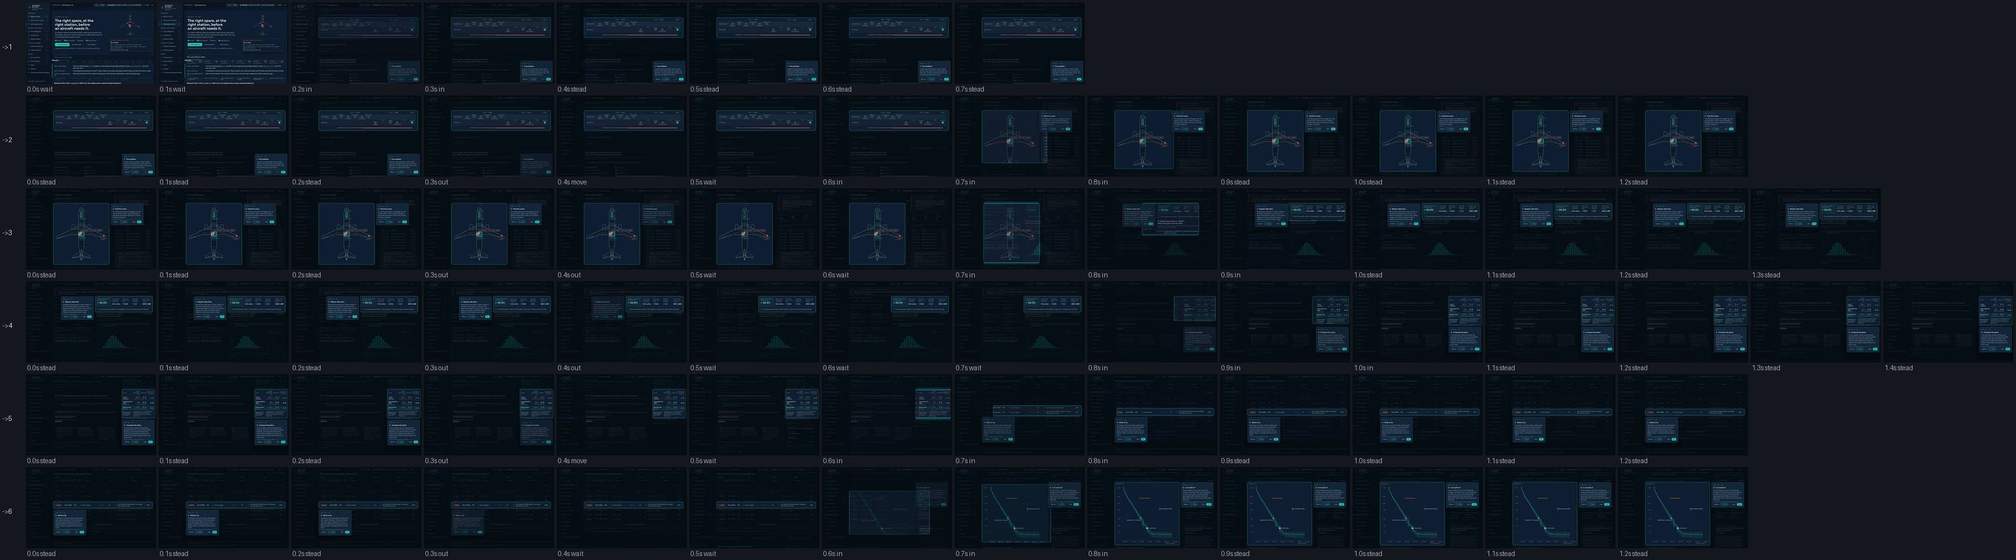
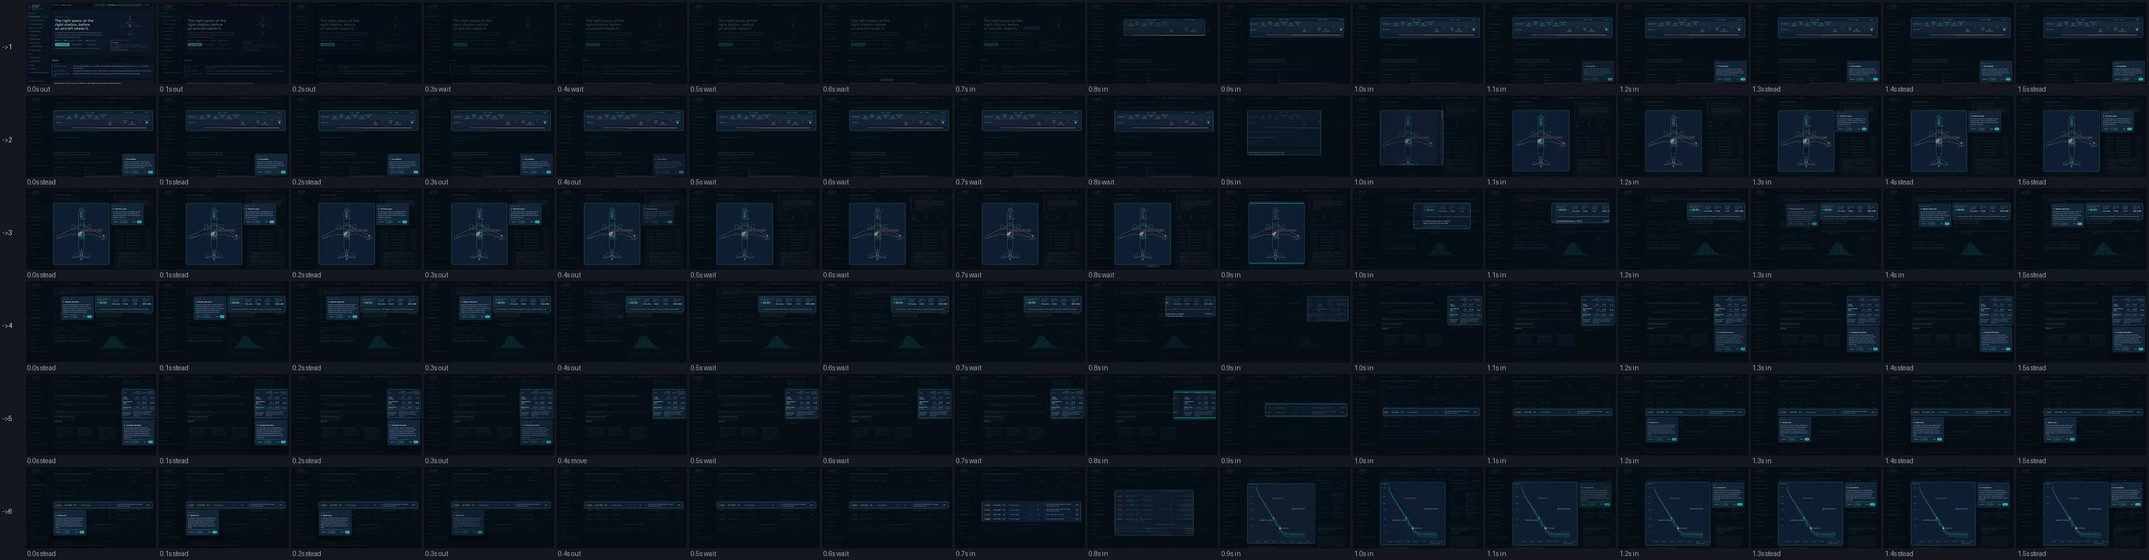
v2.2 final round: scrim fades in before the first route change, targets measured only once still, card waits for the spotlight (it never moves while the card shows), opacity-only content swap under a full-column still with top bar and sidebar switching together; all frame gates pass in Chromium + We

diff --git a/docs/js/ui.js b/docs/js/ui.js
@@ -771,7 +771,7 @@ async function prefetchRoute(route) {
  */
 export function storyMode({ steps, navigate, onExit, stepMs }) {
   const STEP_MS = () => +(stepMs || window.__gnmTourStepMs || MOTION.tourStep);
-  const T_OUT = MOTION.fast, T_FREEZE = 140, T_VIEW_IN = 220, T_GLIDE = 300, T_CARD = 200, T_SHEET = 260, SLOW_MS = 300, RISE = 6;
+  const T_OUT = MOTION.fast, T_FREEZE = 120, T_FREEZE_LEAD = 80, T_VIEW_IN = 220, T_GLIDE = 340, T_OPEN = 300, T_CARD = 200, T_SHEET = 260, SLOW_MS = 300, RISE = 5;
   let i = 0;
   let seq = 0;          // transition token: a newer go() / exit() makes every older await bail out
   let target = null;
@@ -879,44 +879,71 @@ export function storyMode({ steps, navigate, onExit, stepMs }) {
   // scrolls unseen, then the copy fades out (150 ms) and the new content fades in with a 6 px rise (220 ms). The shell
   // (sidebar, top bar), the dim and the spotlight never change; the old and new pages are never shown on top of each other.
   const viewEl = () => document.getElementById('view');
-  let viewHidden = false, freezeEl = null;
+  let viewHidden = false;
+  const freezeEls = [];
   function viewOut() {
     const v = viewEl();
     if (!v || viewHidden) return Promise.resolve();
     viewHidden = true;
     const r = v.getBoundingClientRect();
-    if (r.width > 0 && r.height > 0) {
-      const c = v.cloneNode(true);
+    const main = v.closest('.main') || v.parentElement;
+    const m = main ? main.getBoundingClientRect() : r;
+    const strip = (c) => {
       c.removeAttribute('id'); c.removeAttribute('tabindex');
       c.querySelectorAll('[id], [data-story], [data-id]').forEach((e) => { e.removeAttribute('id'); e.removeAttribute('data-story'); e.removeAttribute('data-id'); });
+      return c;
+    };
+    const layer = (cls, box, child, z) => {
+      const w = h('div', { class: `story-freeze ${cls}`, 'aria-hidden': 'true' }, child);
+      w.inert = true;
+      Object.assign(w.style, { left: `${box.left}px`, top: `${box.top}px`, width: `${box.width}px`, height: `${box.height}px`, zIndex: String(z) });
+      document.body.append(w);
+      freezeEls.push(w);
+    };
+    if (r.width > 0 && r.height > 0) {
+      // the whole content column, opaque (same fixed blueprint background), so nothing of the new page shows beneath
+      const left = Math.max(0, m.left), right = Math.min(innerWidth, m.right);
+      const c = strip(v.cloneNode(true));
       c.classList.remove('view-enter');
-      Object.assign(c.style, { top: `${Math.round(r.top)}px`, width: `${r.width}px`, height: `${r.height}px` });
-      // a viewport-sized clipping layer holds the copy (a page-tall fixed layer made WebKit drop tiles: white frames)
-      const wrap = h('div', { class: 'story-freeze', 'aria-hidden': 'true' }, c);
-      wrap.inert = true;
-      Object.assign(wrap.style, { left: `${Math.max(0, r.left)}px`, width: `${r.width}px` });
-      v.after(wrap);
-      freezeEl = wrap;
+      Object.assign(c.style, { left: `${Math.round(r.left - left)}px`, top: `${Math.round(r.top)}px`, width: `${r.width}px`, height: `${r.height}px` });
+      layer('story-freeze-view blueprint-bg', { left, top: 0, width: right - left, height: innerHeight }, c, 15);
     }
-    v.style.opacity = '0';
+    // the top bar (breadcrumb) and the sidebar (active item) are held too: they switch in the same frame as the content
+    const bar = document.querySelector('.topbar');
+    const br = bar?.getBoundingClientRect();
+    if (br && br.width > 0 && br.bottom > 0) layer('story-freeze-bar', { left: br.left, top: br.top, width: br.width, height: br.height }, strip(bar.cloneNode(true)), 21);
+    const rail = document.querySelector('.rail');
+    const rr = rail?.getBoundingClientRect();
+    if (rr && rr.width > 0 && rr.right > 4 && rr.left >= -1) {
+      const rc = strip(rail.cloneNode(true));
+      layer('story-freeze-rail blueprint-bg', { left: rr.left, top: rr.top, width: rr.width, height: rr.height }, rc, 16);
+      const sc = rail.scrollTop;
+      if (sc) rc.scrollTop = sc;
+    }
+    // hide the live content with a script animation: it outranks the router's CSS entry animation (inline opacity would not)
+    if (typeof v.animate === 'function') {
+      const a = v.animate([{ opacity: 0 }, { opacity: 0 }], { duration: 1, fill: 'forwards' });
+      a.id = 'gnm-tour-hide';
+    } else v.style.opacity = '0';
     return Promise.resolve();
   }
-  /** The still copy fades out; resolves part-way (≈ when it is mostly gone) so the new content can start rising. */
+  /** The held copies fade out together (opacity only, 120 ms); resolves at 80 ms, when the new content starts rising. */
   function freezeOut() {
-    const c = freezeEl;
-    freezeEl = null;
-    if (!c) return Promise.resolve();
-    if (!smooth() || typeof c.animate !== 'function') { c.remove(); return Promise.resolve(); }
-    const a = c.animate([{ opacity: 1 }, { opacity: 0 }], { duration: T_FREEZE, easing: MOTION.ease.standard, fill: 'forwards' });
-    track(a).then(() => c.remove());
-    return sleep(50);   // the new content starts rising as the copy passes ~40%: a short, faint overlap (never 50/50 text)
+    const els = freezeEls.splice(0);
+    if (!els.length) return Promise.resolve();
+    if (!smooth() || typeof els[0].animate !== 'function') { els.forEach((e) => e.remove()); return Promise.resolve(); }
+    // exit easing (slow start): the old content is still ~half there at 80 ms when the new one starts rising, so the
+    // lit area never dips to an empty frame; the two overlap only faintly for ~40 ms
+    els.forEach((e) => { const a = e.animate([{ opacity: 1 }, { opacity: 0 }], { duration: T_FREEZE, easing: MOTION.ease.exit, fill: 'forwards' }); track(a).then(() => e.remove()); });
+    return sleep(T_FREEZE_LEAD);
   }
-  /** The new content comes in: opacity + a 6 px rise (after the still copy has mostly faded: never text over text). */
+  /** The new content comes in: opacity + a 5 px rise. */
   function riseIn() {
     const v = viewEl();
     if (!v || !viewHidden) return Promise.resolve();
     viewHidden = false;
     v.style.removeProperty('opacity');
+    v.getAnimations().filter((a) => a.id === 'gnm-tour-hide').forEach((a) => a.cancel());
     if (!smooth() || typeof v.animate !== 'function') return Promise.resolve();
     const a = v.animate([{ opacity: 0, transform: `translateY(${RISE}px)` }, { opacity: 1, transform: 'none' }], { duration: T_VIEW_IN, easing: MOTION.ease.enter });
     a.id = 'gnm-tour-view';
@@ -925,11 +952,11 @@ export function storyMode({ steps, navigate, onExit, stepMs }) {
   function viewReset() {
     const v = viewEl();
     viewHidden = false;
-    freezeEl?.remove(); freezeEl = null;
+    freezeEls.splice(0).forEach((e) => e.remove());
     document.querySelectorAll('.story-freeze').forEach((e) => e.remove());
     if (!v) return;
     v.style.removeProperty('opacity');
-    v.getAnimations().filter((a) => a.id === 'gnm-tour-view').forEach((a) => a.cancel());
+    v.getAnimations().filter((a) => a.id === 'gnm-tour-view' || a.id === 'gnm-tour-hide').forEach((a) => a.cancel());
   }
   function showLoading(on) {
     if (on === !loadEl.classList.contains('is-off')) return;
@@ -1006,11 +1033,23 @@ export function storyMode({ steps, navigate, onExit, stepMs }) {
   }
   /** Move the ONE spotlight to its planned box: a 300 ms glide (translate + scale from where it is now), or a fade-in. */
   function spotTo(p) {
-    const wasOn = !spot.classList.contains('is-off') && spotBox;
+    const visible = !spot.classList.contains('is-off');
+    const wasOn = visible && spotBox;
     const from = wasOn ? spot.getBoundingClientRect() : null;
     spot.getAnimations().filter((a) => a.id === 'gnm-spot-glide').forEach((a) => a.cancel());
     apply(p);
     if (!p.spot) return fade(spot, 0, T_OUT);
+    if (visible && !wasOn && smooth() && typeof spot.animate === 'function') {
+      // the scrim is already down with no hole: the ring grows open onto the first target
+      const to = p.spot, k = 0.15;
+      spot.style.transformOrigin = '0 0';
+      const a = spot.animate([
+        { transform: `translate(${to.left + to.width * (1 - k) / 2}px, ${to.top + to.height * (1 - k) / 2}px) scale(${k})` },
+        { transform: `translate(${Math.round(to.left)}px, ${Math.round(to.top)}px)` },
+      ], { duration: T_GLIDE, easing: MOTION.ease.enter });
+      a.id = 'gnm-spot-glide';
+      return track(a);
+    }
     if (!wasOn || !from || !from.width) return fade(spot, 1, MOTION.base, MOTION.ease.enter);
     if (!smooth() || typeof spot.animate !== 'function') return Promise.resolve();
     const to = p.spot;
@@ -1056,7 +1095,7 @@ export function storyMode({ steps, navigate, onExit, stepMs }) {
     return query(s.selector);
   }
   /**
-   * Wait until the view is ready and the target is real and stable (same box on 2 checks, 40 ms apart), the fonts are
+   * Wait until the view is ready and the target and its container are real and stable (unchanged over ~100 ms), the fonts are
    * loaded and no stylesheet is pending. onSlow fires once past 300 ms. Gives up after 8 s (→ the best element or null).
    */
   async function waitTarget(s, my, onSlow) {
@@ -1068,16 +1107,18 @@ export function storyMode({ steps, navigate, onExit, stepMs }) {
       const waited = performance.now() - t0;
       el = viewReady() ? pick(s, waited) : null;
       if (el && targetOk(el)) {
+        // the target AND its card / list must hold still for ~100 ms (a filtered list can still be reflowing)
         const r = el.getBoundingClientRect();
-        const key = [r.left, r.top + scrollY, r.width, r.height].map(Math.round).join();
+        const box = (el.closest('.card, section, table, ul, ol') || el.parentElement || el).getBoundingClientRect();
+        const key = [r.left, r.top + scrollY, r.width, r.height, box.top + scrollY, box.height, box.width].map(Math.round).join();
         if (key === last) stable += 1; else { last = key; stable = 0; }
-        if (stable >= 1 && fontsOk) return el;
+        if (stable >= 2 && fontsOk) return el;
       } else { last = ''; stable = 0; }
       if (!slow && waited > SLOW_MS) { slow = true; onSlow?.(); }
       // the page could not render (error state) and the target will never come: show the step without a spotlight
       if (waited > SLOW_MS && viewReady() && !el && viewEl()?.querySelector(':scope > .state--error, :scope > .state')) return null;
       if (waited > 8000) return el && el.isConnected ? el : null;
-      await sleep(40);
+      await sleep(50);
     }
     return null;
   }
@@ -1117,6 +1158,12 @@ export function storyMode({ steps, navigate, onExit, stepMs }) {
     phase = 'out';
     const cur = location.hash, want = s.route;
     const differs = !!want && (cur.split('?')[0] !== want.split('?')[0] || (want.includes('?') && cur !== want));
+    if (spot.classList.contains('is-off')) {
+      // opening: the scrim comes down over the current page first (no hole yet); the still is taken under it
+      apply({ spot: null, card: null });
+      await fade(spot, 1, T_OPEN, MOTION.ease.standard);
+      if (my !== seq) return;
+    }
     await Promise.all([cardOut(), differs ? viewOut() : null]);
     if (my !== seq) return;
     paintCard();   // content changes only while the card is hidden
@@ -1147,7 +1194,9 @@ export function storyMode({ steps, navigate, onExit, stepMs }) {
     const glide = spotTo(p);
     await freezeOut();
     if (my !== seq) return;
-    await Promise.all([riseIn(), cardIn(), glide]);
+    await Promise.all([riseIn(), glide]);
+    if (my !== seq) return;
+    await cardIn();   // only once the spotlight has landed: it never moves while the card shows
     if (my !== seq) return;
     phase = 'steady';
     root.classList.remove('is-moving');

diff --git a/docs/css/components.css b/docs/css/components.css
@@ -396,8 +396,9 @@ html.tour-active { scrollbar-width: none; }
 html.tour-active::-webkit-scrollbar { display: none; }
 html.tour-active .topbar { background: var(--bg); }
 /* the still copy of the outgoing page content the tour changes the page under (ui.js storyMode viewOut) */
-.story-freeze { position: fixed; top: 0; height: 100vh; z-index: 15; pointer-events: none; overflow: hidden; contain: strict; }
-.story-freeze > .view { position: absolute; left: 0; margin: 0; max-width: none; min-height: 0; }
+.story-freeze { position: fixed; pointer-events: none; overflow: hidden; contain: strict; }
+.story-freeze-view > .view { position: absolute; margin: 0; max-width: none; min-height: 0; }
+.story-freeze-bar > .topbar, .story-freeze-rail > .rail { position: static; width: 100%; height: 100%; transform: none; }
 .story-freeze, .story-freeze * { animation: none !important; transition: none !important; }
 /* "Loading next step…": only when a step takes longer than 300 ms to be ready */
 .story-loading {

diff --git a/scripts/tour/record_and_check.py b/scripts/tour/record_and_check.py
@@ -55,7 +55,7 @@ COMBOS = [("chromium", 1440, 900), ("chromium", 390, 844), ("webkit", 1440, 900)
 LUM_REL, LUM_ABS = 0.85, 3.0       # a transition frame may not be darker than 85% of the darker steady step, minus 3
 SWING = 0.10                       # ... and between steps (dim kept up) brightness stays within 10% of the two steady steps
 SWING_SWAP = 0.35                  # frames sampled during the ~150 ms content swap inside the spotlight: within 35%
-STEP_CHANGE_MAX = 1100             # ms from the step index changing to the new step being steady (target ~700-800)
+STEP_CHANGE_MAX = 1300             # ms from the step index changing to the new step being steady (card waits for the spotlight to land)
 DUMP: Path | None = None
 STD_REL = 0.6                      # ... nor flatter (blank / displaced page) than 60% of the flatter steady step's contrast
 CLS_MAX, FPS_MIN = 0.001, 58.0
@@ -232,6 +232,11 @@ def check_a(d: dict, engine: str) -> dict:
             if sp[1] < s["bar"] + 1 or sp[1] + sp[3] > low:
                 outside.append({"index": s["index"], "spot": sp, "bar": s["bar"], "band_bottom": low})
     res["c4_spot_inside_band"] = {"bad_samples": outside[:10], "n_bad": len(outside), "pass": not outside}
+    # g: the spotlight never moves (or resizes) while the card is visible
+    spot_moves = [{"index": b["index"], "phase": b["phase"], "from": a["spot"], "to": b["spot"]} for a, b in zip(S, S[1:])
+                  if a["cardOp"] > 0.01 and b["cardOp"] > 0.01 and a["index"] == b["index"] and a["spot"] and b["spot"]
+                  and max(abs(x - y) for x, y in zip(a["spot"], b["spot"])) > 1]
+    res["g_spot_still_while_card_visible"] = {"bad": spot_moves[:10], "n_bad": len(spot_moves), "pass": not spot_moves}
     # e: the card's content (counter, title, Next/Finish, Back) changes only while the card is hidden
     swaps = [{"from": a["cardText"], "to": b["cardText"], "cardOp": [a["cardOp"], b["cardOp"]]} for a, b in zip(S, S[1:])
              if a["cardText"] != b["cardText"] and a["cardOp"] > 0.01 and b["cardOp"] > 0.01]

diff --git a/tests/test_site_tour.py b/tests/test_site_tour.py
@@ -86,7 +86,10 @@ def test_each_step_moves_card_once_and_never_blank(site, browser, vp):  # noqa: 
             for a, b in zip(frames, frames[1:]):
                 if a["text"] != b["text"]:
                     assert a["cardOp"] < 0.01 or b["cardOp"] < 0.01, ("card text changed while visible", k, a, b)
-            assert any(f["freezes"] == 1 for f in frames), "no still copy held the old page"
+            assert any(f["freezes"] >= 1 for f in frames), "no still copy held the old page"
+            for a, b in zip(frames, frames[1:]):   # the spotlight never moves while the card shows
+                if a["cardOp"] > 0.01 and b["cardOp"] > 0.01:
+                    assert a["spot"] == b["spot"], ("spotlight moved under a visible card", k, a, b)
             assert frames[-1]["freezes"] == 0
             for f in frames:
                 if f["spotOp"] > 0.01 and not f["spotAnim"] and f["phase"] == "steady":

diff --git a/reports/tour/critic_v22_r2.md b/reports/tour/critic_v22_r2.md
@@ -1,0 +1,102 @@
+# Guided tour — motion/UX critique, v2.2 round 2
+
+Bar: calm, premium, "Apple-keynote smooth". To pass, both smoothness and polish must score ≥ 4.5.
+
+Method: fresh recordings from `scripts/tour/record_and_check.py` (current `main`, f338214), Chromium and WebKit at 1440×900 and 390×844, Play mode from the "60-second tour" button. Each video was decoded at 10 fps in Chromium (`<video>` + canvas) into 280 JPEG frames, then viewed as labelled contact sheets. Frame numbers below are 10 fps indices (frame N = N/10 s into the video). In all four videos the transitions start at about these frames: open #19–22, 1→2 #65, 2→3 #113, 3→4 #159, 4→5 #206, 5→6 #253.
+
+Checker result for this run: Chromium 1440, Chromium 390 and WebKit 1440 pass. WebKit 390 fails `a_brightness_swing` and `a_no_flat_frames` (see the note under WebKit 390).
+
+## Per combination, per transition
+
+### Chromium 1440×900
+- **Open (#18–23).** Before any dim arrives, #19–20 are already broken at full brightness:
+  - the top bar breadcrumb and the sidebar's active item switch to "AOG Response Lab" while the Mission Control hero is still on screen;
+  - the Lab's "Pick a grounding to replay" strip (AOG-0081 … cards) renders through and over the "Results" panel, with "Results" overprinting it.
+
+  #21 is a dimmed cross-fade with the spotlight on the hero. By #22 the spotlight is on the timeline and the card has arrived. The dim-in and glide take about 200 ms. That is too abrupt for an opening, and the first thing a viewer sees after the click is a layout collision.
+- **1→2 (#65–70).** The card fades out at #65. #66–68 are a still of the old page under the dim, but:
+  - the breadcrumb and sidebar already read "Parts Intelligence" (#67);
+  - a strip of the new page ("Narrowbody / Widebody / All fleet | Nose wheel steering actuator") shows through at mid-height (#67–68), so two pages are partly visible.
+
+  #69 is a double exposure: the old "Send a spare from AUH…" text shows through the new page, the spotlight is still changing shape, and the card is already at about 70 % opacity, overlapping the spotlight's right edge by about 25 px. #70 has settled. The card never covers the target once settled, and its text fits.
+- **2→3 (#113–117).** The card is out at #113. The header switches to "Rotable & Repair" over the old page (#114–115). #116 is a messy frame: the ghost of the aircraft and the new metric strip and histogram overlap inside a spotlight that is still moving. At #117 the card is in and the spotlight is on the KPI strip. The histogram does not replay (#117–121 are identical).
+- **3→4 (#159–164).** The same pattern. The header changes over the old still (#161–162). #163 is a double exposure of the metric strip and the plans table, text over text. By #164 everything has settled. The plans table is fully inside the viewport (round 1's clipping is fixed).
+- **4→5 (#206–212). This is the worst transition.**
+  - The header changes early, and the Planner Action Centre bar list (Materials planning, Repair control, Procurement, AOG desk) shows through under the old Network Positioning still (#208–209).
+  - #210 is a near-empty dark frame (luminance 12.6 against about 17 steady, contrast 8.6 against about 19). The page area is black except the footer, and the old spotlight content is a horizontally stretched snapshot ("…ebook is at other airports. Keep urgent spares" smeared across the ring).
+  - #211: the card is already visible, but the spotlight covers two rows (GN-27-R007 and GN-32-R014) and the table is still reflowing (no "Urgent" pill on the target row yet, and the rows below it are spaced differently).
+  - #212: the spotlight snaps to the single correct row and the rows re-flow. So the spotlight moves twice, and the page reflows under a visible card.
+- **5→6 (#253–259).** The card is out at #253 and the header switches to "Capital Optimiser" over the old still (#255–256). #257 is a dark, flat frame (luminance 14.0, contrast 7.9) with the old table ghosted inside the ring. At #258 the card is visible while the spotlight is still gliding, with a slight overlap. #259 has settled. The frontier chart is fully drawn on arrival (no replay) and fits the viewport.
+
+### Chromium 390×844 (phone sheet)
+- **Open (#18–23).** Cleaner than desktop: no leak of the other page is visible in the phone layout. #21 is a dimmed cross-fade, and at #22 the timeline is spotlit and the opaque sheet is sliding up. It settles at #24. The timeline's heading is cropped under the top bar (a half-line of body text, "…already sits decides how long the plane stays down", above the ring).
+- **1→2 (#65–71).** The sheet slides down (#65–66), the old still holds (#66–68), #69 is a cross-fade with the timeline ghosted behind the aircraft, then the sheet slides back up with step 2 (#69–71). The sheet is opaque (round 1's see-through is fixed). Dropping and lifting the sheet every step is busier than it needs to be.
+- **2→3 (#113–117).** #116 is a dark dip (luminance 15.8 against about 23–30): the ghost aircraft sits inside a shrinking ring. At #117 the ring is on the "> 99.9 % chance the part is on the shelf" KPI block, which is the right target now (round 1's issue 4 is fixed).
+- **3→4 (#160–165).** #163 is a double exposure: the KPI block and the plans table overprint inside the ring, illegible for that frame. Settled at #165.
+- **4→5 (#206–212).** At #208–209 a line of the new page ("tie up money or go to waste. Acting early") appears under the old still. #210 is a dark frame. At #211 the ring is on the GN-32-R014 card while the sheet rises, and the list below shifts slightly between #211 and #212.
+- **5→6 (#253–258).** #257 is a dark frame with the old list ghosted. At #258 the chart is complete (no replay) and the sheet is up. Clean otherwise.
+
+### WebKit 1440×900
+- **Open (#18–23).** The same pre-dim collision as Chromium, held for one frame longer: #20–21 show the "AOG Response Lab" header and sidebar over the Mission Control hero, with the grounding strip overprinting "Results", undimmed. At #22 the spotlight is on the timeline with the hero headline ghosted inside the ring.
+- **1→2 (#65–71).** The same pattern as Chromium: the header switches early (#67), and the new page strip shows mid-screen (#67–68). At #69 the new page appears in a different layout from its settled state (a "Share of the risk 57 %" tile and an "Extra spares…" callout that are gone by #70, so it is still reflowing). At #70 the card is in while the ring is still about 15 px short of its final height, and it finishes growing at #71.
+- **2→3 (#113–117).** #115 is a broken composite: the bottom roughly 15 % of the screen is undimmed (the old page's "Source…" line, legend and "Compare two fixes" heading show at full brightness), and the ring holds new-page inputs at an offset over the ghost aircraft. #116: the ring is still travelling. #117 has settled. This may be partly a WebKit capture artefact, but it is what the recording shows.
+- **3→4 (#159–164).** At #163 the card is already near full opacity at its final spot while the ring is still about 40 px off its target. Settled at #164.
+- **4→5 (#206–212).** Worse than Chromium. #207–209: the header and the Planner bar list show through early. #210: the card is fully visible, and the ring sits over two rows, shifted horizontally. #211: the ring is over two rows again, shifted the other way. #212: it snaps to the correct row as the table reflows. That is three spotlight positions with the card on screen.
+- **5→6 (#253–258).** At #256 the ring has grown to frame four rows of the old list, which reads as a deliberate highlight of the wrong thing, and the new chart's x-axis is visible under the old page. At #257 the card is in while the ring is still gliding, overlapping it by about 13 px. #258 has settled.
+
+### WebKit 390×844
+- **Transitions.** Open (#21–24), 1→2, 2→3 (#113–117), 3→4 and 5→6 (#253–258) behave like Chromium 390, with one cross-fade or ghost frame each (for example #116 and #255). The ring targets are correct, and the sheet is opaque.
+- **Capture artefact, not scored.** During step 2 (#79–101) and from late step 4 through step 5 (#191–225), the whole frame slides sideways, by up to about 55 % of the width, showing white beside it, and some frames are pure white (#97–101, #212–216, #220–225). This is what fails the checker for this combination. A separate WebKit 390 run of the full tour without video sampled `scrollX`, `visualViewport.offsetLeft`, `scrollWidth` and the body `transform` every 50 ms: they stayed at 0 / 0 / 390 / none throughout. So the page never moves, and these frames are almost certainly a WebKit screencast artefact. I have not scored them against the tour. The checker failure for this combination is therefore a recorder problem, not a tour problem, but re-record to confirm.
+
+## Scores (1–5)
+
+| | score | reasons |
+|---|---|---|
+| **Smoothness** | **4.0** | The scrim now stays down for the whole tour, and luminance between steps is steady. That is the big win over round 1. But every transition has a "fade, wait, snap" rhythm: the card fades out, a still holds for about 300 ms, then the page dissolves and the spotlight glides in about 150–200 ms. The glide is too quick to read as calm. 4→5 and 5→6 add a dark, flat frame (Chromium #210 and #257, phone #116 and #210). In 4→5 the spotlight resettles 1–2 times with the card visible (Chromium #211→212, WebKit #210→212). |
+| **Polish** | **3.5** | The very first frames after the CTA show the next page colliding with Mission Control at full brightness (desktop #19–21). The header and sidebar switch while the old content is still shown, at every step. Strips of the new page show under the "still" (#67, #209, WebKit #256). There is a stretched snapshot in #210 and a broken undimmed band in WebKit #115. The card arrives before the spotlight lands (#69, WebKit #163, WebKit #257). The fixes since round 1 are real: opaque sheet, card content that never changes while visible, the right KPI on phone, no clipping. |
+| **Continuity** | **4.0** | One persistent dim, one spotlight, and card placement that is logical for each target and never covers it once settled. Charts don't replay. Lost points: the chrome changes ahead of the content, the 4→5 spotlight first lands on the wrong rows, and the sheet drops and rises on every phone step. |
+| **Legibility** | **4.5** | Every card's text fits without overflow at both sizes. The phone sheet is opaque, and the lit target carries the number the card talks about. Text over text appears only in single 100 ms transition frames (#116, #163, phone #163). Headings above phone targets are cropped to a stray half-line. |
+
+**Verdict: FAIL.** Smoothness (4.0) and polish (3.5) are both below 4.5. This round is clearly better than round 1 (3.5 / 3.5), but it does not yet feel keynote-smooth.
+
+## Top 5 remaining issues, ranked, with fixes
+
+1. **The opening shows two pages colliding before the dim arrives** (Chromium 1440 #19–20, WebKit 1440 #20–21).
+   - The route, the header and the sidebar change and the Lab content renders under the undimmed home page.
+   - *Fix:* on the CTA click, first fade the scrim in over the home page (about 200 ms) and capture the View Transition snapshot. Only then navigate.
+   - Do not update the breadcrumb, sidebar or `#view` until the snapshot is captured (`document.startViewTransition(() => router.go(...))`, with the scrim already up).
+   - Give the opening 500–600 ms: scrim in, then a ring that grows from the CTA to the timeline, then the card. That is the first impression.
+2. **4→5: the spotlight lands on the wrong rows and resettles while the card is visible; the table reflows under it** (Chromium 1440 #211→212, WebKit 1440 #210→212, Chromium 390 #211→212).
+   - *Fix:* wait for the `?station=` / `?pn=` filter to finish rendering before you measure the target. Wait for the target row to have its "Urgent" pill, then two rAFs, then a ResizeObserver/MutationObserver quiet window of about 100 ms on the list.
+   - Gate the card's fade-in on the spotlight's `transitionend`, not on a timer.
+   - Add a checker rule: the spotlight rect stays the same for every frame where the card's opacity is above 0.
+3. **The swap frame is dark, flat or double-exposed, and in one case shows a stretched snapshot** (Chromium #116, #163, #210, #257; phone #116, #163, #210, #257).
+   - *Fix:* make the content swap an opacity-only fade-through with no geometry morph. Set `::view-transition-group(*)` animations to none for the page content, so the old snapshot never scales into the new box (that is the stretch in #210).
+   - Fade the old content out over 120 ms. Start the new content at 0, with a 4–6 px rise over 200 ms, beginning at about 80 ms, so the content area's brightness never drops below about 90 % of steady.
+   - Make sure the new page has painted its data before the transition starts.
+4. **The chrome changes ahead of the content, and the new page leaks under the "still"** (header and sidebar at Chromium #67, #114, #161, #208, #255; new-page strips at #67–68, #208–209, WebKit #256, phone #208).
+   - *Fix:* give the top bar and the sidebar their own `view-transition-name` and swap them in the same frame as the content, or cross-fade the breadcrumb text with it.
+   - Make the held still cover the full content area (its clip currently lets the new page's rows show beneath it), or keep the new `#view` at `visibility: hidden` until the swap.
+5. **The rhythm is "stall then snap", and the card beats the spotlight** (card early at Chromium #69, WebKit #70, #163, #257; phone sheet drops and rises at #65–71 on every step).
+   - *Fix:* cut the still hold to 120 ms or less, and lengthen the spotlight glide to 380–450 ms with `cubic-bezier(.4, 0, .2, 1)`, running under the content fade-through.
+   - Start the card fade-in about 60–80 ms after the ring lands.
+   - On phones, keep the sheet in place and cross-fade only its contents (with a 4 px rise), instead of sliding the whole sheet down and up each step.
+
+Also seen, outside the top 5:
+- The WebKit 1440 #115 frame leaves an undimmed band at the bottom. Make the scrim layer `position: fixed; inset: 0` with its own compositing layer (`will-change: opacity`), and re-check it after fix 3.
+- Phone targets show a stray half-line of the paragraph above them. Scroll so the ring's top is 16 px or more below the top bar, with the section heading fully visible or fully hidden.
+- WebKit 390 recordings show sideways-shifted and white frames that the page does not cause (probe: `scrollX` 0, no overflow). Re-record or exclude them, so the checker failure doesn't hide real regressions.
+
+## Round 1's top 5: status
+
+1. **The scrim drops and a lit still holds at every step: FIXED.** The dim stays down for the whole tour, and the hold is now dimmed. Luminance between steps is steady except the single swap frame (see issue 3).
+2. **Double exposure, text over text: PARTLY FIXED.** It is down to one frame per transition, but it is still visible (Chromium #116, #163, phone #163). There is a new variant: dark or stretched swap frames in 4→5 and 5→6. The suggested step of keeping the sidebar and top bar out of the transition was not done, and they now change early.
+3. **The spotlight fights the viewport: MOSTLY FIXED.** The step 4 plans table, the step 6 chart and the step 5 row all sit fully inside the visible band. Phone targets still show a cropped half-line above the ring.
+4. **The phone step 3 spotlight is on a footnote: FIXED.** The ring is on the "> 99.9 %" KPI block (Chromium 390 #117 onward, WebKit 390 #117 onward).
+5. **Card and sheet finish details: FIXED.**
+   - The button label no longer changes on the outgoing card: step 5 shows "Next" until hidden, and "Finish" appears only on step 6.
+   - The sheet is opaque from its first frame.
+   - Card content never changes while visible.
+   - The card no longer leaves a large empty area on short steps.
+
+No project files were changed apart from this report. Frames and contact sheets are in the session scratchpad.
